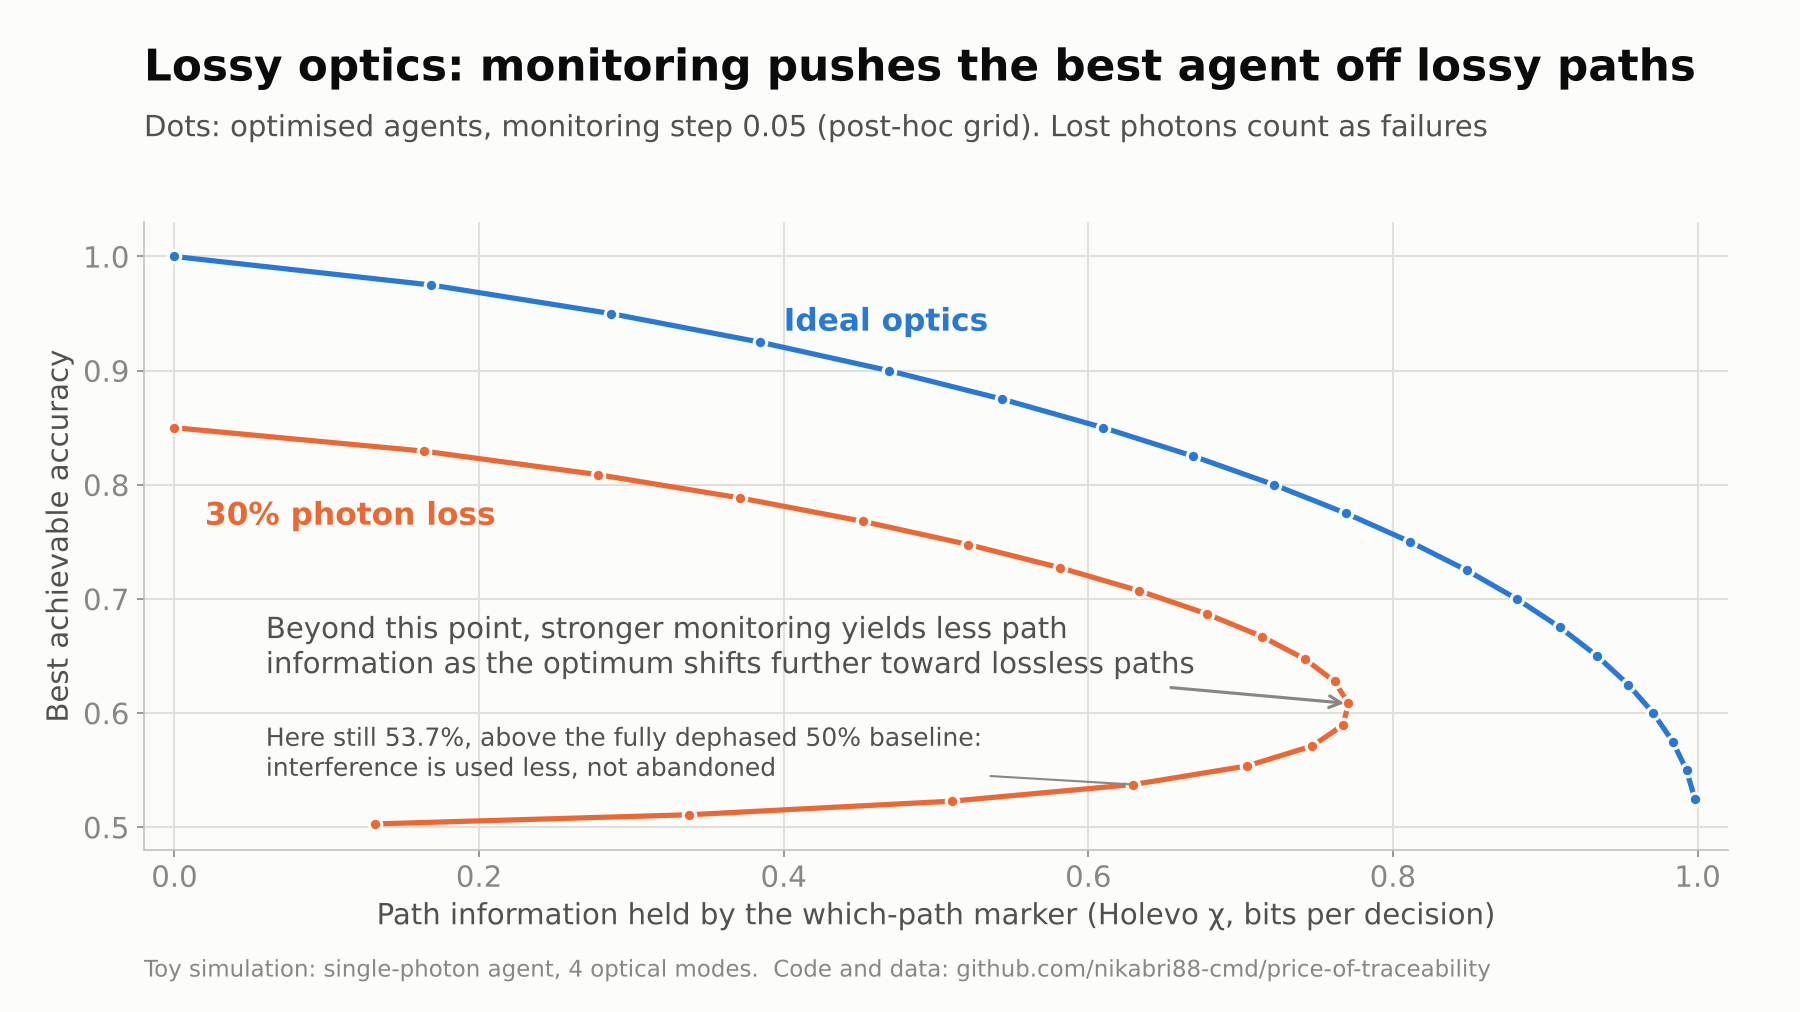
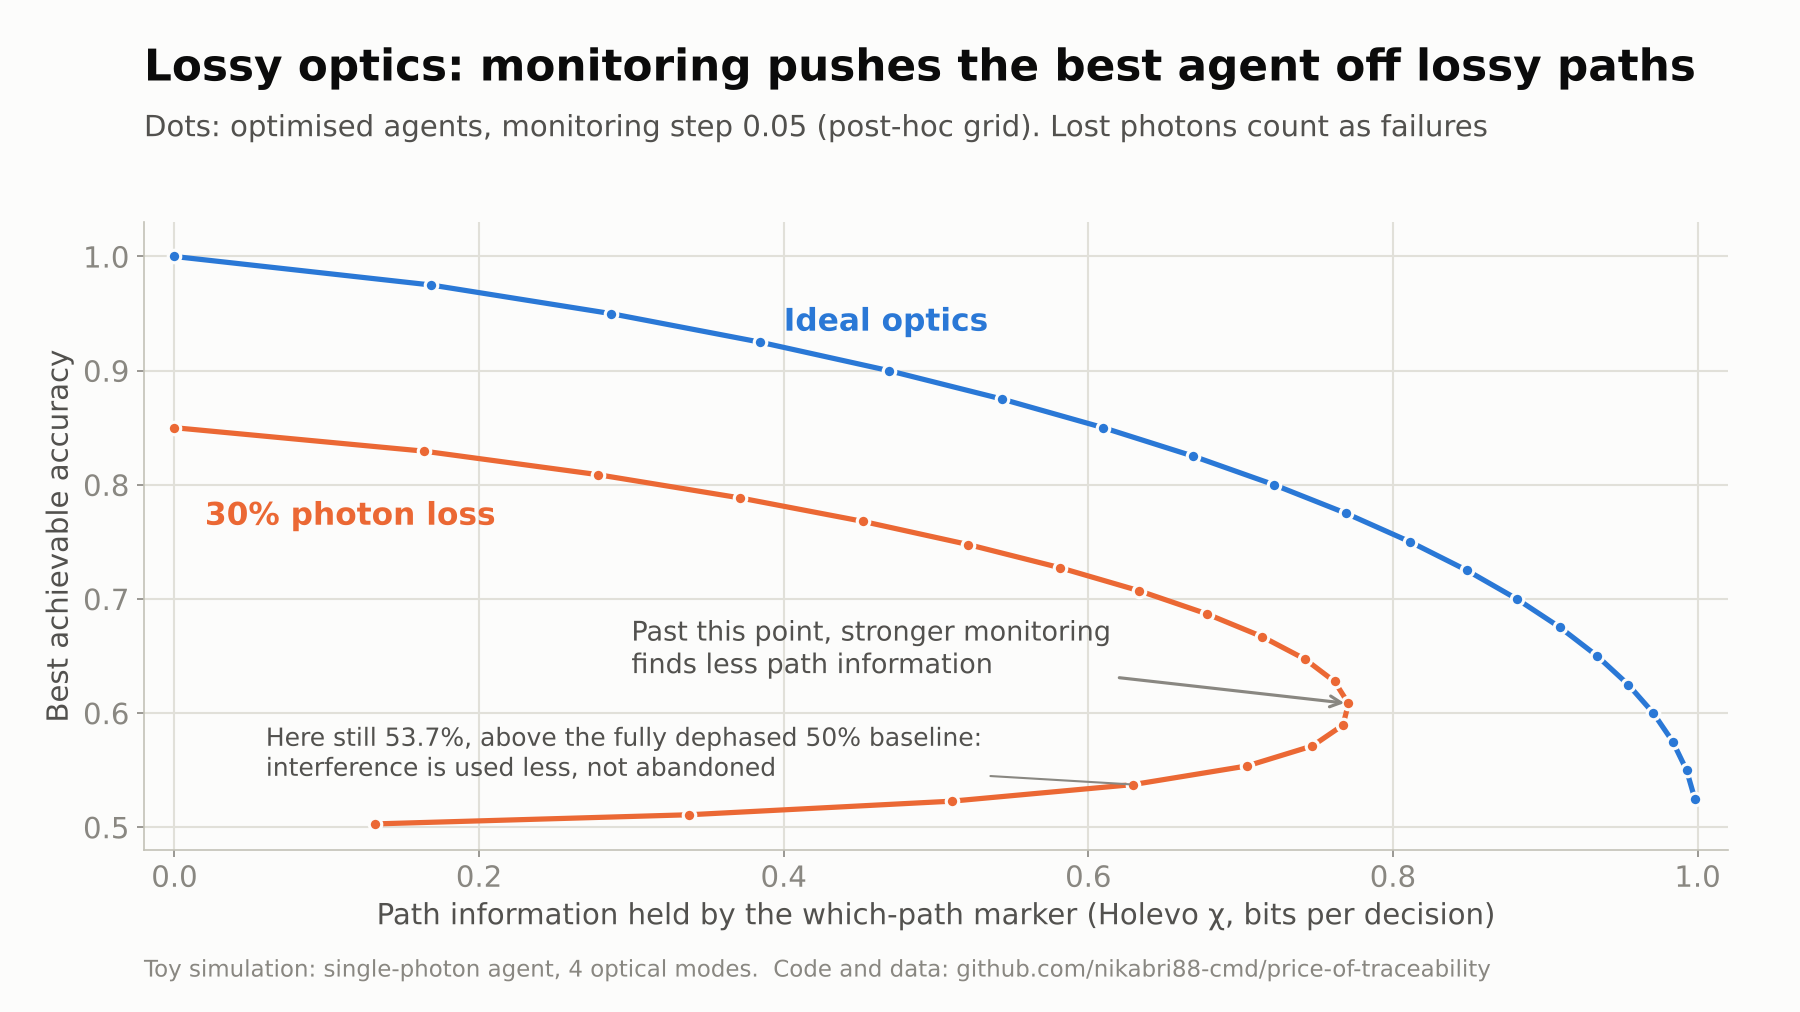
Post figure: simpler annotation at the turn of the loss curve
Claude-Session: https://claude.ai/code/session_01LKg2zZ7ijjRSdvGXjezqCU

Changed region(s): [[0.1556, 0.6126, 0.6533, 0.6739], [0.6533, 0.6739, 0.7156, 0.7045]]

diff --git a/social/x_figures.py b/social/x_figures.py
@@ -75,8 +75,8 @@ for eps, col, lab, xy in ((0.0, BLUE, "Ideal optics", (0.40, 0.935)), (0.3, ORAN
             mec=SURF, mew=1.5, zorder=3)
     ax.text(*xy, lab, color=col, fontsize=15, weight="bold")
 peak = max((r for r in d if r["epsilon"] == 0.3), key=lambda r: r["info_opt_bits"])
-ax.annotate("Beyond this point, stronger monitoring yields less path\ninformation as the optimum shifts further toward lossless paths",
-            (peak["info_opt_bits"], peak["acc_max"]), xytext=(0.06, 0.635), color=INK2, fontsize=14,
+ax.annotate("Past this point, stronger monitoring\nfinds less path information",
+            (peak["info_opt_bits"], peak["acc_max"]), xytext=(0.30, 0.635), color=INK2, fontsize=13,
             arrowprops=dict(arrowstyle="->", color=MUTED, lw=1.5))
 end = next(r for r in d if r["epsilon"] == 0.3 and abs(r["gamma"] - 0.2) < 1e-9)
 ax.annotate("Here still 53.7%, above the fully dephased 50% baseline:\ninterference is used less, not abandoned", (end["info_opt_bits"], end["acc_max"]),
